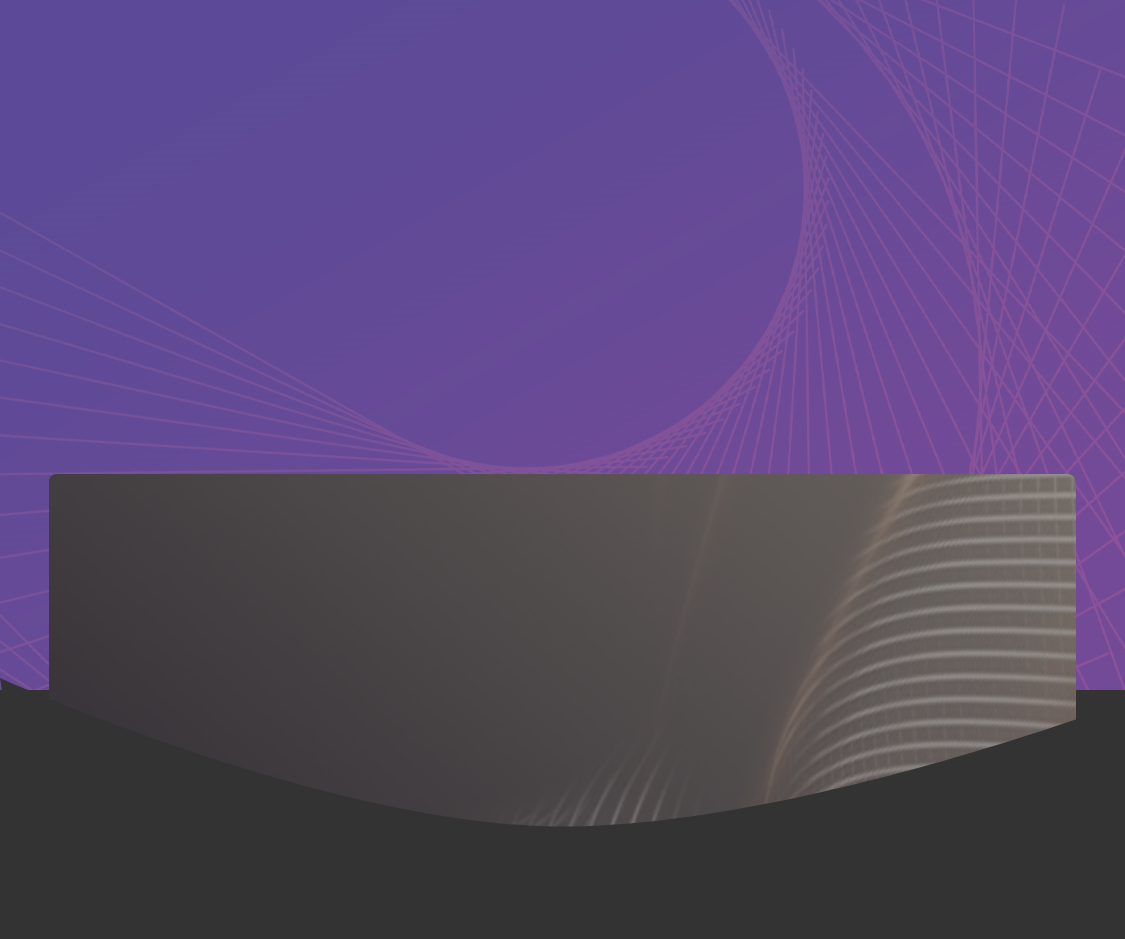
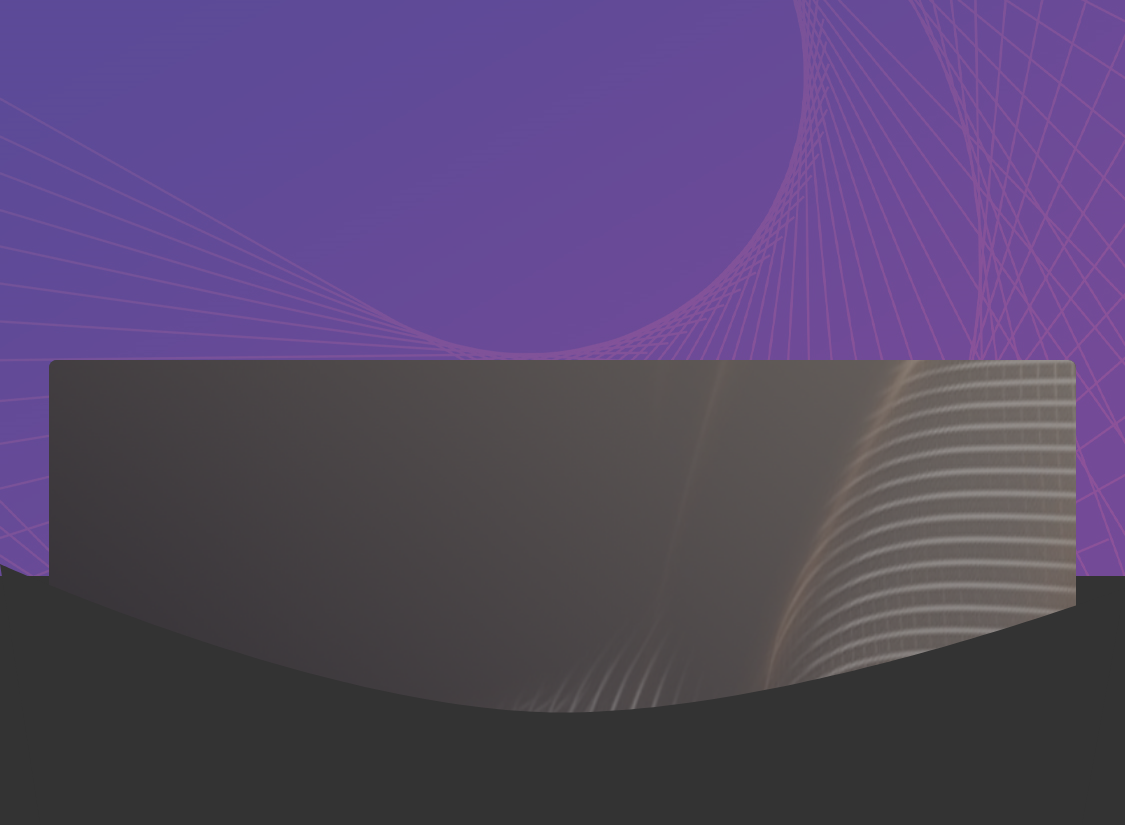
1

diff --git a/src/styles/user/user.scss b/src/styles/user/user.scss
@@ -6,6 +6,30 @@ html {
   p {
     color: #ffffff;
   }
+
+  .layout_title {
+    font-size  : 0.4324rem;
+    color      : #ffffff;
+    padding    : 5% 4%;
+    padding-top: 0;
+    display    : flex;
+    align-items: center;
+
+    &:before {
+      content        : "";
+      background     : url("../../../static/img/guankanjilu.png") no-repeat;
+      background-size: 0.5676rem 0.5676rem;
+      width          : 0.4324rem;
+      height         : 0.4324rem;
+    }
+
+    & span {
+      font-size  : 0.3243rem;
+      color      : #999999;
+      margin-left: auto;
+    }
+  }
+
 }
 
 .user-container {
@@ -15,8 +39,7 @@ html {
     // padding-left   : 0.4324rem;
     background     : url('../../../static/img/vip.png')no-repeat;
     background-size: 100%;
-    height         : 16.2162rem;
-    padding-bottom : 0.1892rem;
+    height         : 7.8378rem;
 
     .header_top {
       padding       : 0 0.7027rem;
@@ -91,7 +114,7 @@ html {
       display     : flex;
       flex-flow   : column;
       padding-left: 1.1892rem;
-      padding-top : 0.8919rem;
+      padding-top : 0.5946rem;
 
       img {
         width        : 0.4324rem;
@@ -100,14 +123,176 @@ html {
       }
 
       span {
-        width         : 100%;
-        font-size     : 0.4865rem;
-        color         : #f0c88f;
-        font-family   : Source Han Sans CN;
-        padding-bottom: 0.2973rem;
+        width      : 100%;
+        font-size  : 0.4865rem;
+        color      : #f0c88f;
+        font-family: Source Han Sans CN;
+        padding-top: 0.2973rem;
       }
     }
   }
 
-  .user_content {}
+  .user_content {
+    .record {
+      .layout_title {
+        display    : flex;
+        align-items: center;
+        line-height: 0;
+
+        &:before {
+          content        : "";
+          background     : url("../../../static/img/guankanjilu.png") no-repeat;
+          background-size: 0.4324rem 0.4324rem;
+          width          : 0.4324rem;
+          height         : 0.4324rem;
+          padding-right  : 0.2162rem;
+        }
+      }
+
+      img {
+        -webkit-mask-image: linear-gradient(to bottom, rgba(255, 255, 255, 0) 0, rgba(255, 255, 255, .6) 0%, rgba(255, 255, 255, 1) 0%, rgba(255, 255, 255, 1) 55%, rgba(255, 255, 255, .6) 85%, rgba(255, 255, 255, 0) 100%);
+        border-radius     : 0.2703rem 0rem 0.2703rem 0rem
+      }
+
+      #list {
+        overflow-x  : auto; //设置x轴可滑动 
+        overflow-y  : hidden; //设置x轴可滑动 
+        list-style  : none; //去掉li上的小点 
+        white-space : nowrap; //元素不换行 
+        width       : auto; //(宽度) 
+        padding-left: 4%;
+
+        &::-webkit-scrollbar {
+          width: 0;
+        }
+
+        .underl {
+          margin-left: 0rem !important;
+        }
+
+        .item {
+          margin-left: 0.1622rem; //每个li设置间距为0.1622rem 
+          display    : inline-block; //让所有的li在一行 注意这里不能用float:left 因为设置float后里超过一屏后会自动换行 
+          width      : 37.87%;
+          position   : relative;
+
+          img {
+            width        : 100%;
+            height       : 2.4388rem;
+            border-radius: 0.2703rem 0rem 0.2703rem 0rem;
+          }
+
+          .record_info {
+            .record_info_ab {
+              color   : #ffff;
+              display : flex;
+              position: absolute;
+              bottom  : 20%;
+              width   : 100%;
+
+              .record_tip {
+                padding-left: 4.2%;
+                width       : 100%;
+              }
+
+
+            }
+
+            .record_info_bt {
+              .record_name {
+                font-size     : 0.3784rem;
+                line-height   : 0.5135rem;
+                letter-spacing: 0rem;
+                color         : #ffffff;
+              }
+            }
+
+          }
+        }
+
+      }
+    }
+
+    .collection {
+      .layout_title {
+        display    : flex;
+        align-items: center;
+        line-height: 0;
+
+        &:before {
+          content        : "";
+          background     : url("../../../static/img/coll_t.png") no-repeat;
+          background-size: 0.4324rem 0.4324rem;
+          width          : 0.4324rem;
+          height         : 0.4324rem;
+          padding-right  : 0.2162rem;
+        }
+      }
+
+      img {
+        -webkit-mask-image: linear-gradient(to bottom, rgba(255, 255, 255, 0) 0, rgba(255, 255, 255, .6) 0%, rgba(255, 255, 255, 1) 0%, rgba(255, 255, 255, 1) 55%, rgba(255, 255, 255, .6) 85%, rgba(255, 255, 255, 0) 100%);
+        border-radius     : 0.2703rem 0rem 0.2703rem 0rem
+      }
+
+      #list {
+        overflow-x  : auto; //设置x轴可滑动 
+        overflow-y  : hidden; //设置x轴可滑动 
+        list-style  : none; //去掉li上的小点 
+        white-space : nowrap; //元素不换行 
+        width       : auto; //(宽度) 
+        padding-left: 4%;
+
+        &::-webkit-scrollbar {
+          width: 0;
+        }
+
+        .underl {
+          margin-left: 0rem !important;
+        }
+
+        .item {
+          margin-left: 0.1622rem; //每个li设置间距为0.1622rem 
+          display    : inline-block; //让所有的li在一行 注意这里不能用float:left 因为设置float后里超过一屏后会自动换行 
+          width      : 37.87%;
+          position   : relative;
+
+          img {
+            width        : 100%;
+            height       : 2.4388rem;
+            border-radius: 0.2703rem 0rem 0.2703rem 0rem;
+          }
+
+          .collection_info {
+            .collection_info_ab {
+              color   : #ffff;
+              display : flex;
+              position: absolute;
+              bottom  : 20%;
+              width   : 100%;
+
+              .collection_tip {
+                padding-left: 4.2%;
+                width       : 100%;
+              }
+
+
+            }
+
+            .collection_info_bt {
+              .collection_name {
+                font-size     : 0.3784rem;
+                line-height   : 0.5135rem;
+                letter-spacing: 0rem;
+                color         : #ffffff;
+              }
+            }
+
+          }
+        }
+
+      }
+    }
+
+
+  }
 }

diff --git a/src/components/user/user.vue b/src/components/user/user.vue
@@ -30,7 +30,50 @@
         </span>
       </div>
     </div>
-    <div class="user_content"></div>
+    <div class="user_content">
+      <div class="record">
+        <span class="layout_title">
+          观看记录
+          <span class="layout_title_span" @click="goMore">更多></span>
+        </span>
+        <div>
+          <ul id="list">
+            <li class="item" v-for="(image, index) in record_img" :key="index" :class="index ==0 ? 'underl' : ''">
+              <img v-lazy="image" @click="goVideo">
+              <div class="record_info">
+                <div class="record_info_ab">
+                  <span class="record_tip">更新至12集</span>
+                </div>
+                <div class="record_info_bt">
+                  <span class="record_name">蜘蛛侠：平行宇宙</span><br />
+                </div>
+              </div>
+            </li>
+          </ul>
+        </div>
+      </div>
+      <div class="collection">
+        <span class="layout_title">
+          观看记录
+          <span class="layout_title_span" @click="goMore">更多></span>
+        </span>
+        <div>
+          <ul id="list">
+            <li class="item" v-for="(image, index) in collection_img" :key="index" :class="index ==0 ? 'underl' : ''">
+              <img v-lazy="image" @click="goVideo">
+              <div class="collection_info">
+                <div class="collection_info_ab">
+                  <span class="collection_tip">更新至12集</span>
+                </div>
+                <div class="collection_info_bt">
+                  <span class="collection_name">蜘蛛侠：平行宇宙</span><br />
+                </div>
+              </div>
+            </li>
+          </ul>
+        </div>
+      </div>
+    </div>
   </div>
 </template>
 
@@ -49,6 +92,22 @@ export default {
       person_img: [
         require('../../../static/img/touxiang.png'),
       ],
+      record_img: [
+        require('../../../static/img/lately_img1.png'),
+        require('../../../static/img/lately_img1.png'),
+        require('../../../static/img/lately_img1.png'),
+        require('../../../static/img/lately_img1.png'),
+        require('../../../static/img/lately_img1.png'),
+        require('../../../static/img/lately_img1.png'),
+      ],
+      collection_img: [
+        require('../../../static/img/lately_img1.png'),
+        require('../../../static/img/lately_img1.png'),
+        require('../../../static/img/lately_img1.png'),
+        require('../../../static/img/lately_img1.png'),
+        require('../../../static/img/lately_img1.png'),
+        require('../../../static/img/lately_img1.png'),
+      ],
     }
   },
 
@@ -58,7 +117,14 @@ export default {
 
   computed: {
   },
-  methods: {},
+  methods: {
+    goMore: function() {
+      this.$router.push("More")
+    },
+    goVideo: function() {
+      this.$router.push("Video")
+    },
+  },
 
   components: {},
 

diff --git a/src/styles/home/screen.scss b/src/styles/home/screen.scss
@@ -43,7 +43,6 @@ html {
   .screen-container {
     padding-bottom: 2%;
 
-    //banner
     .banner {
       .swipe_box {
         .swipe_item {
